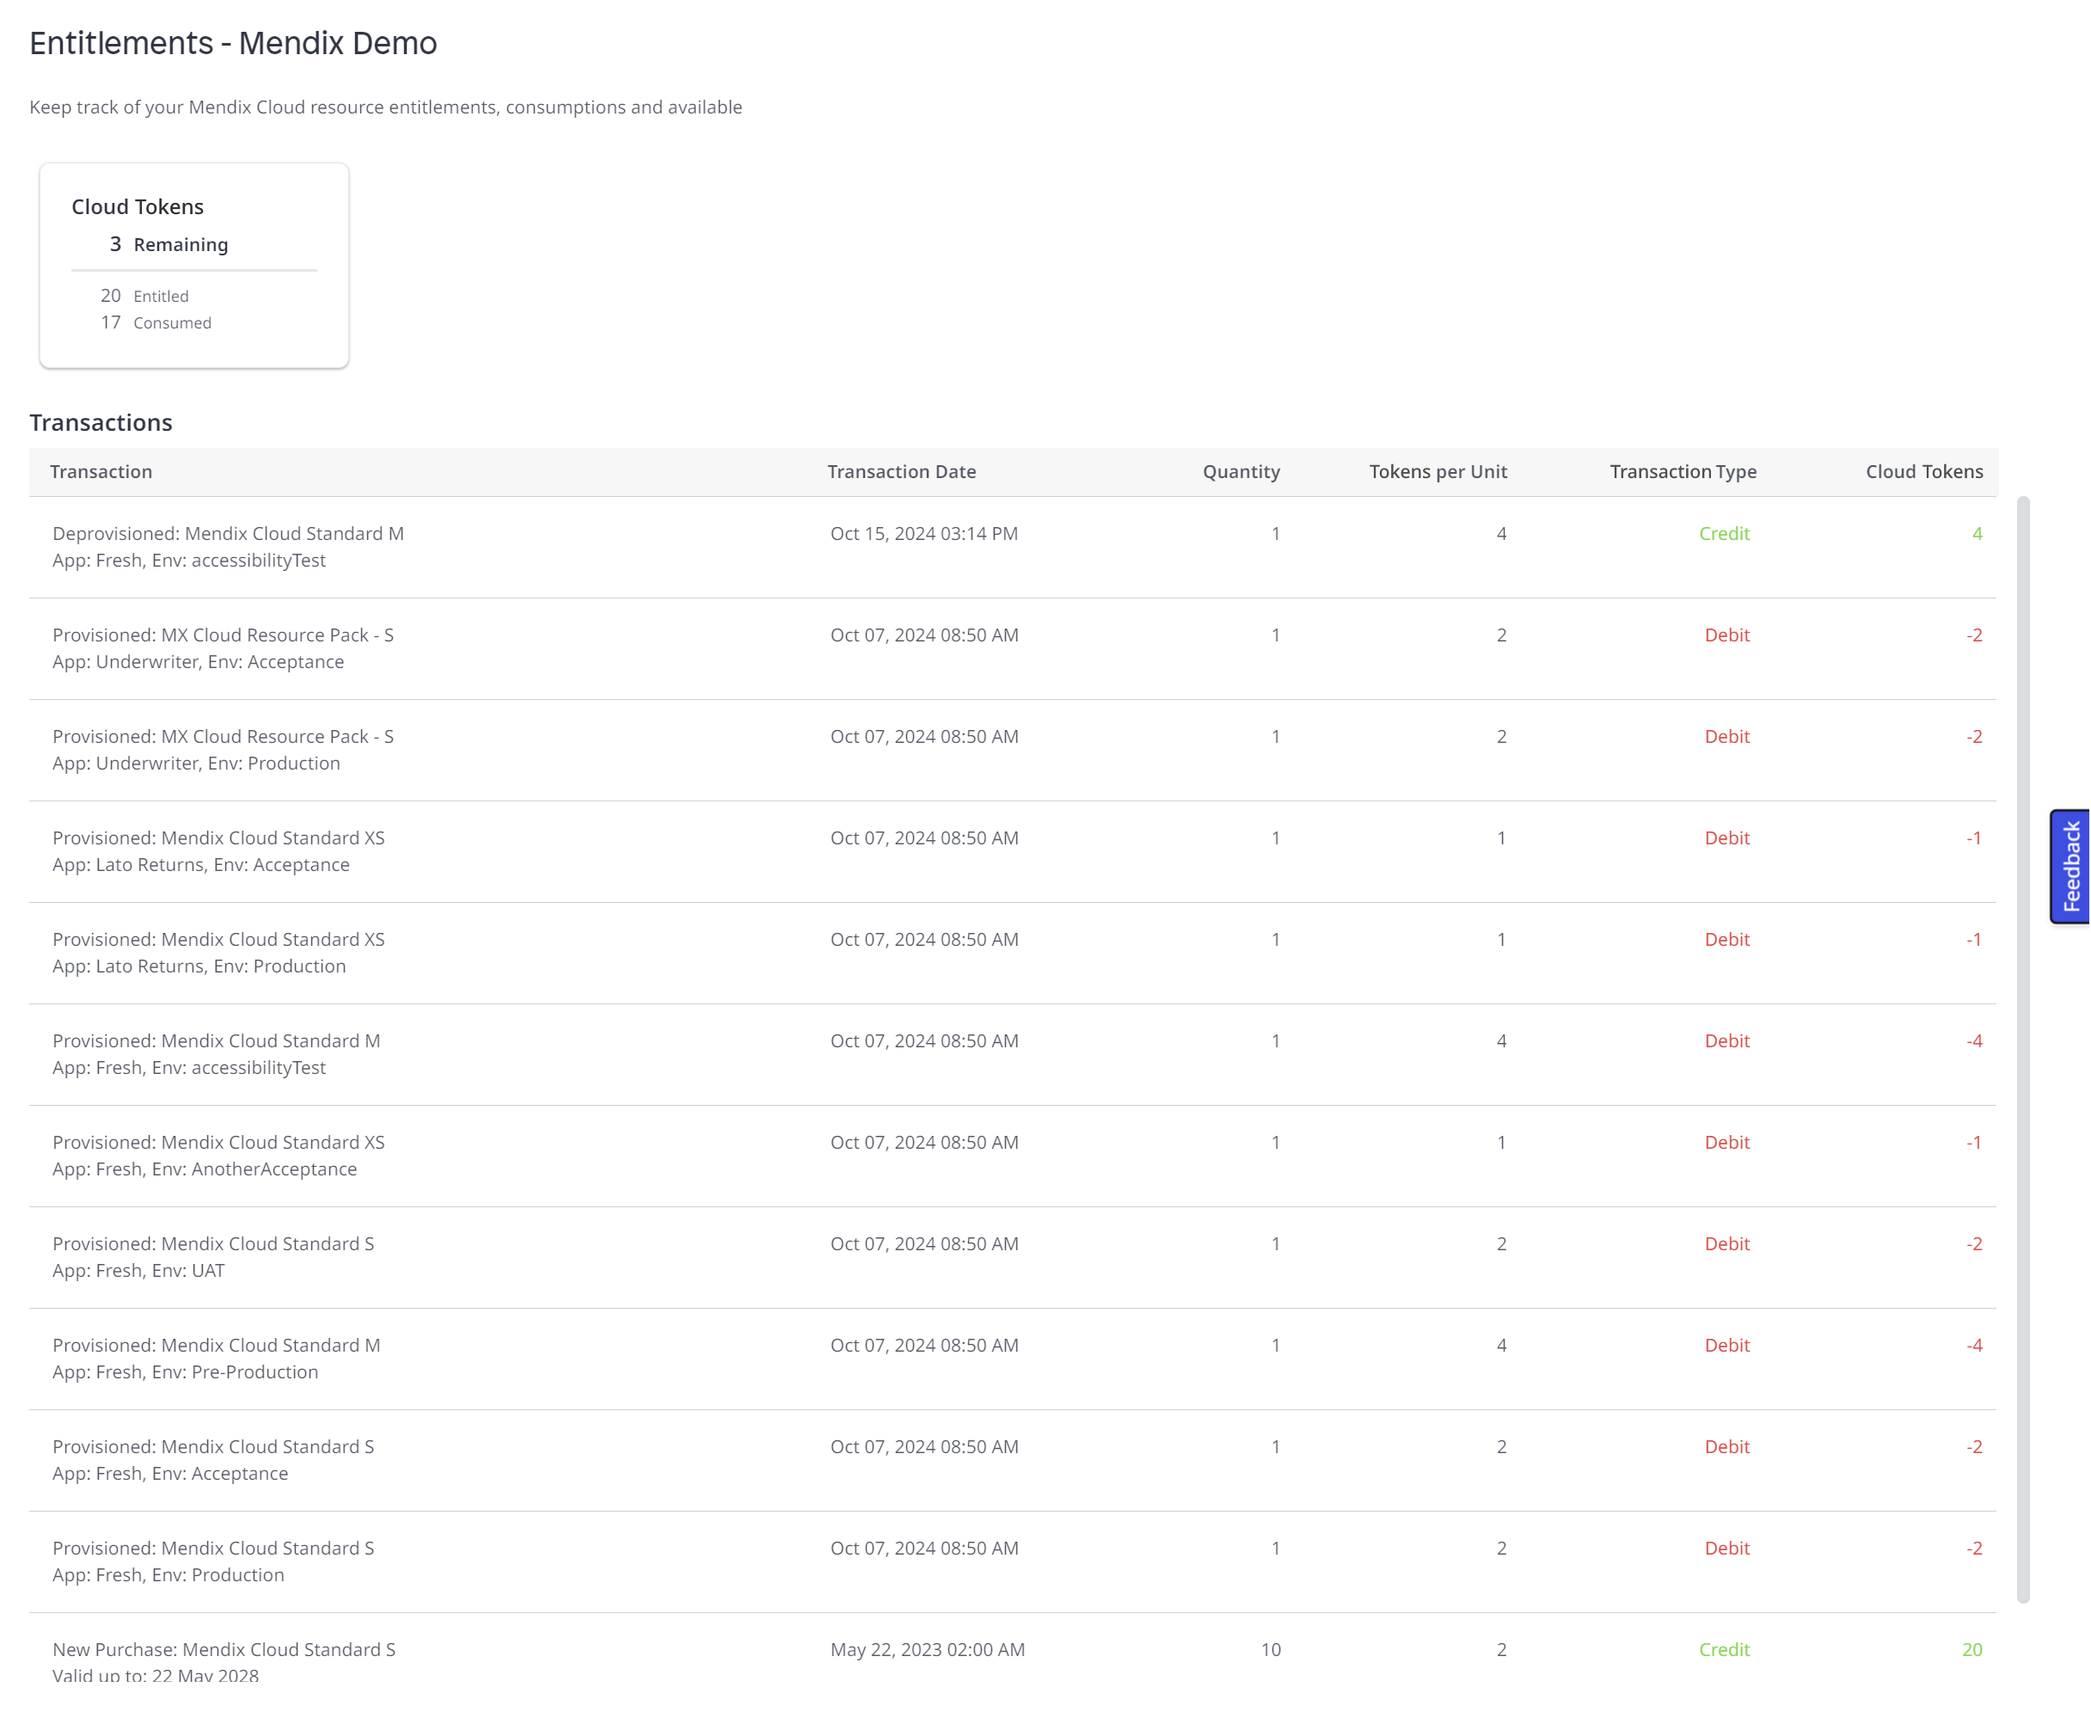
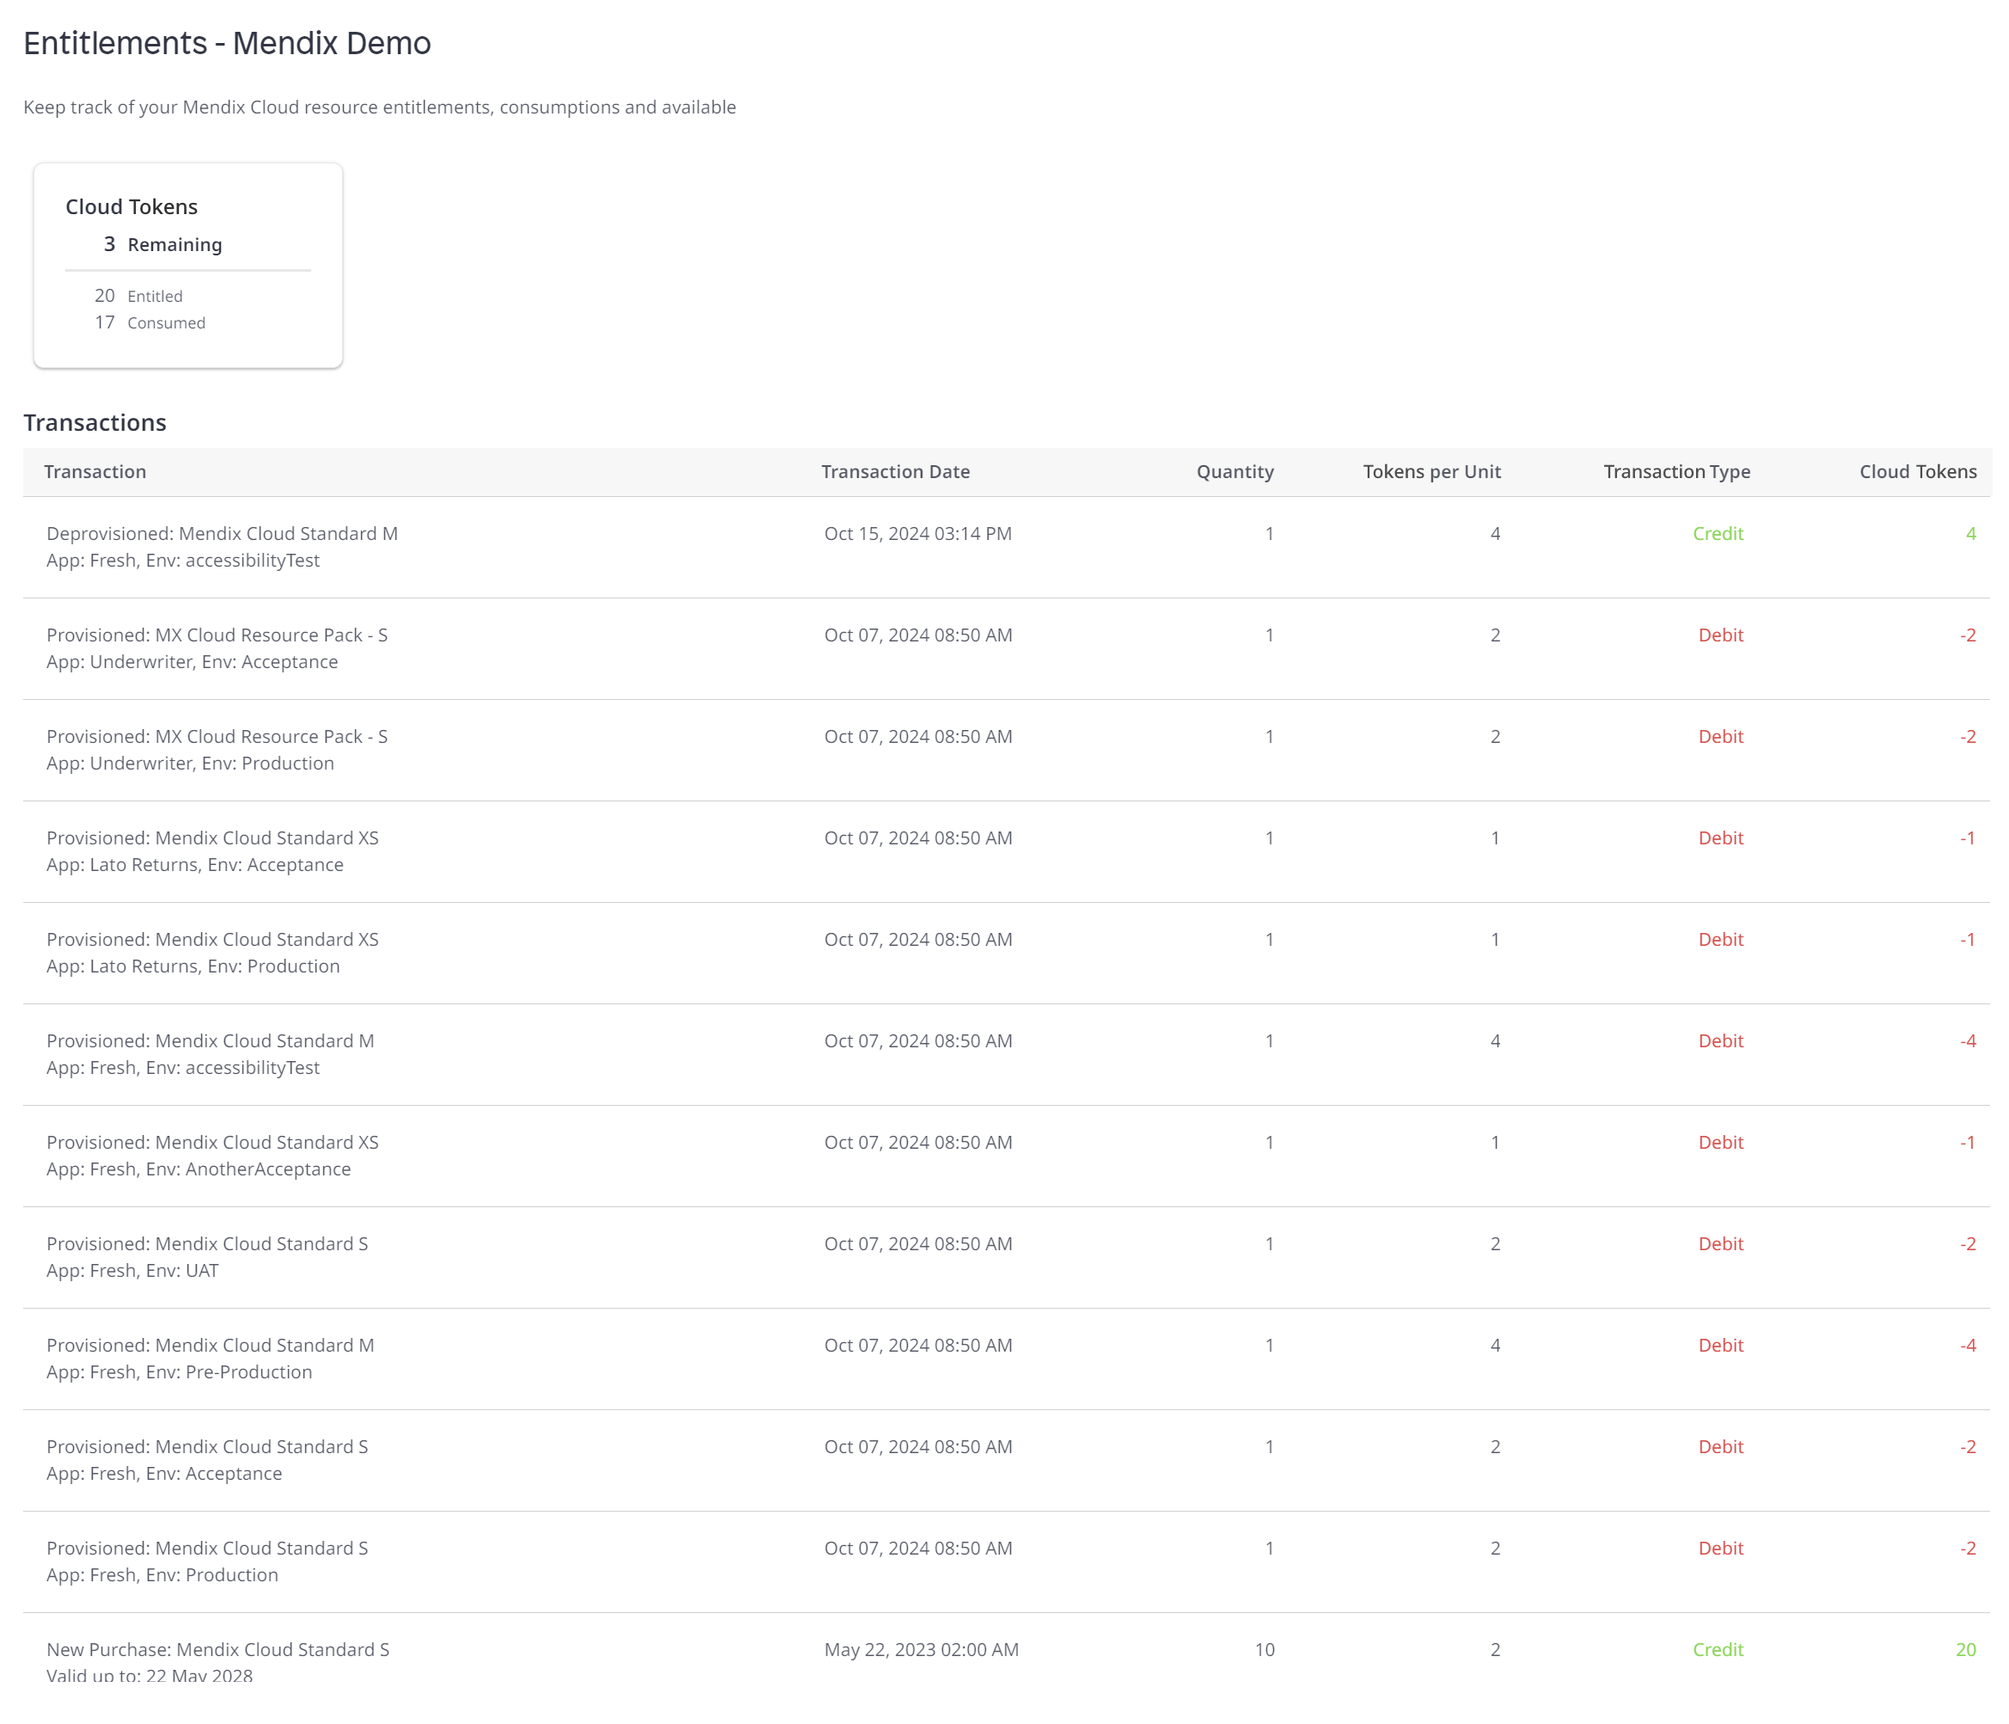
remove no boarder

diff --git a/content/en/docs/control-center/apps/entitlements.md b/content/en/docs/control-center/apps/entitlements.md
@@ -16,7 +16,7 @@ This feature is currently in beta. For more information, see [Beta Releases](/re
 
 The **Entitlements** page is a self-service tool that displays the transactions using cloud tokens. You can use the page to monitor your consumption of cloud tokens.
 
-{{< figure src="/attachments/control-center/apps/entitlements/entitlements.png" alt="entitlements page" class="no-border" >}}
+{{< figure src="/attachments/control-center/apps/entitlements/entitlements.png" alt="entitlements page" >}}
 
 ## What Are Mendix Cloud Tokens? {#cloud-tokens}
 
